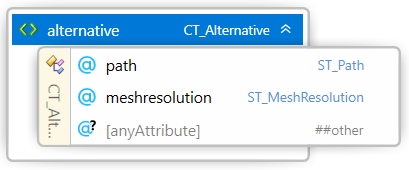
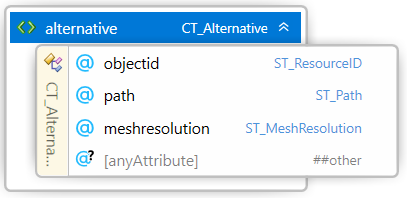
Alternatives group

diff --git a/3MF Production Extension.md b/3MF Production Extension.md
@@ -60,17 +60,17 @@ This extension MUST be used only with Core specification 1.x.
 
 ## Document Conventions
 
-See the [3MF Core Specification conventions](https://github.com/3MFConsortium/spec_core/blob/master/3MF%20Core%20Specification.md#document-conventions).
+See [the 3MF Core Specification conventions](https://github.com/3MFConsortium/spec_core/blob/master/3MF%20Core%20Specification.md#document-conventions).
 
 In this extension specification, as an example, the prefix "p" maps to the xml-namespace "http://schemas.microsoft.com/3dmanufacturing/production/2015/06". See Appendix [D.1 Namespaces](#d1-namespaces).
 
 ## Language Notes
 
-See the [3MF Core Specification language notes](https://github.com/3MFConsortium/spec_core/blob/master/3MF%20Core%20Specification.md#language-notes).
+See [the 3MF Core Specification language notes](https://github.com/3MFConsortium/spec_core/blob/master/3MF%20Core%20Specification.md#language-notes).
 
 ## Software Conformance
 
-See the [3MF Core Specification software conformance](https://github.com/3MFConsortium/spec_core/blob/master/3MF%20Core%20Specification.md#software-conformance).
+See [the 3MF Core Specification software conformance](https://github.com/3MFConsortium/spec_core/blob/master/3MF%20Core%20Specification.md#software-conformance).
 
 # Part I: 3MF Production Extension
 
@@ -82,7 +82,7 @@ In order to allow for the use of 3MF in high production printing environments, s
 
 - Enable the 3MF \<build> elements to address objects in separate files within the 3MF package
 - Identify each build, each object and each copy of a part with unique identifiers
-- Define alternate model representations targetted to different applications, where some of those models might be protected.
+- Define alternative model representations targeted to different applications, where some of those models might be protected.
 
 >**Note:** "Unique identifier" MUST be any of the four UUID variants described in IETF RFC 4122, which includes Microsoft GUIDs as well as time-based UUIDs.
 
@@ -241,7 +241,19 @@ Element **\<component>**
 
 Producers MUST include UUID's in all component-based object references to ensure that each instance of an object can be reliably tracked.
 
-### 4.2.2 Alternative
+### 4.2.2 Alternatives
+
+Element **\<alternative>**
+
+![component.png](images/alternatives.png)
+
+The \<alternatives> element group provides a way to specify alternative representations of a given model. For example applications that do not require a high resolution of the representation migt use a lower resolution to perform their job.
+
+When this is used in conjunction with [the 3MF Secure Content Extension](https://github.com/3MFConsortium/spec_securecontent/blob/master/3MF%20Secure%20Content.md), some of those models might be protected with encryption and consumers might use an alterative representation were they have access.
+
+When several alternative representations, include the one in the root model, the consumer MAY decide which representation to choose from the ones that has rights. The producer MUST generate a 3MF file with no ambiguity for the consumer.
+
+### 4.2.2.1 Alternative
 
 Element **\<alternative>**
 
@@ -249,23 +261,22 @@ Element **\<alternative>**
 
 | Name | Type | Use | Default | Annotation |
 | --- | --- | --- | --- | --- |
+| objectid | **ST\_ResourceID** | required | | objectid indexes into the model file to the object with the corresponding id. |
 | path | **ST\_Path** | required | | A file path to the alternative model file being referenced. The path is an absolute path from the root of the 3MF container. |
 | meshresolution | **ST\_MeshResolution** |  | fullres  | Indicates the intended use the alternative object model. Valid options are: fullres, lowres, obfuscated. |
 | @anyAttribute | | | | |
 
-The \<alternative> element provides a way to specify alternative representations of a given model. For example applications that do not require a high resolution of the representation migt use a lower resolution to perform their job.
+The \<alternative> element specifies an alternative representations of a given model. The alternative MAY replace the object content representation, either the content under mesh or components.
 
-When this is used in conjunction with the [3MF Secure Content Extension](https://github.com/3MFConsortium/spec_securecontent/blob/master/3MF%20Secure%20Content.md), some of those models might be protected with encryption and consumers might use an alterative representation were they have access.
+Only an object in the root model file MAY contain alternative representations. Non-root model file object MUST only reference objects in the same model file.
 
-The use of alternative representations MUST NOT be restricted to the root model. Any model file MAY have alternative representations.
-
-[NOTE: when several representation are available to a consumer, which one to choose???]
+These two limitations ensure there is only a single level of "depth" to multi-file model relationships within a package and explicitly prevents complex or circular object references.
 
 # Part II. Appendixes
 
 ## Appendix A. Glossary
 
-See the [3MF Core Specification glossary](https://github.com/3MFConsortium/spec_core/blob/master/3MF%20Core%20Specification.md#appendix-a-glossary).
+See [the 3MF Core Specification glossary](https://github.com/3MFConsortium/spec_core/blob/master/3MF%20Core%20Specification.md#appendix-a-glossary).
 
 ## Appendix B. 3MF Production Extension Schema
 
@@ -295,12 +306,15 @@ See the [3MF Core Specification glossary](https://github.com/3MFConsortium/spec_
 	</xs:complexType>
 
 	<xs:complexType name="CT_Object">
-		<xs:element ref="metadatagroup" minOccurs="0" maxOccurs="1"/>
-		<xs:choice>
-			<xs:element ref="mesh"/>
-			<xs:element ref="components"/>
-		</xs:choice>
-		<xs:element ref="alternative" minOccurs="0" maxOccurs="2147483647"/>
+		<xs:sequence>
+			<xs:element ref="metadatagroup" minOccurs="0" maxOccurs="1"/>
+			<xs:choice>
+				<xs:element ref="mesh"/>
+				<xs:element ref="components"/>
+			</xs:choice>
+			<xs:element ref="alternatives" minOccurs="0" maxOccurs="1"/>
+			<xs:any namespace="##other" processContents="lax" minOccurs="0" maxOccurs="2147483647"/>
+		</xs:sequence>
 		<xs:attribute name="id" type="ST_ResourceID" use="required"/>
 		<xs:attribute name="type" type="ST_ObjectType" default="model"/>
 		<xs:attribute name="pid" type="ST_ResourceID"/>
@@ -311,10 +325,17 @@ See the [3MF Core Specification glossary](https://github.com/3MFConsortium/spec_
 		<xs:attribute name="UUID" type="ST_UUID" use="required"/>
 		<xs:attribute name="meshresolution" type="ST_MeshResolution" default="fullres"/>
 		<xs:anyAttribute namespace="##other" processContents="lax"/>
-		<xs:any namespace="##other" processContents="lax" minOccurs="0" maxOccurs="2147483647"/>
 	</xs:complexType>
 
+	<xs:complexType name="CT_Alternatives">
+		<xs:sequence>
+			<xs:element ref="alternative" minOccurs="0" maxOccurs="2147483647"/>
+		</xs:sequence>
+		<xs:anyAttribute namespace="##other" processContents="lax"/>
+	</xs:complexType>
+	
 	<xs:complexType name="CT_Alternative">
+		<xs:attribute name="objectid" type="ST_ResourceID" use="required"/>
 		<xs:attribute name="path" type="ST_Path" use="required"/>
 		<xs:attribute name="meshresolution" type="ST_MeshResolution" use="required"/>
 		<xs:anyAttribute namespace="##other" processContents="lax"/>
@@ -322,6 +343,11 @@ See the [3MF Core Specification glossary](https://github.com/3MFConsortium/spec_
 	
 	<!-- Simple Types -->
 
+	<xs:simpleType name="ST_ResourceID">
+		<xs:restriction base="xs:positiveInteger">
+			<xs:maxExclusive value="2147483648"/>
+		</xs:restriction>
+	</xs:simpleType>
 	<xs:simpleType name="ST_Path">
 		<xs:restriction base="xs:string"> </xs:restriction>
 	</xs:simpleType>
@@ -343,6 +369,7 @@ See the [3MF Core Specification glossary](https://github.com/3MFConsortium/spec_
 	<xs:element name="item" type="CT_Item"/>
 	<xs:element name="component" type="CT_Component"/>
 	<xs:element name="object" type="CT_Object"/>
+	<xs:element name="alternatives" type="CT_Alternatives"/>
 	<xs:element name="alternative" type="CT_Alternative"/>
 	
 </xs:schema>
@@ -402,6 +429,6 @@ Production http://schemas.microsoft.com/3dmanufacturing/production/2015/06
 
 # References
 
-See the [3MF Core Specification references](https://github.com/3MFConsortium/spec_core/blob/master/3MF%20Core%20Specification.md#references).
+See [the 3MF Core Specification references](https://github.com/3MFConsortium/spec_core/blob/master/3MF%20Core%20Specification.md#references).
 
 Copyright 3MF Consortium 2018.
